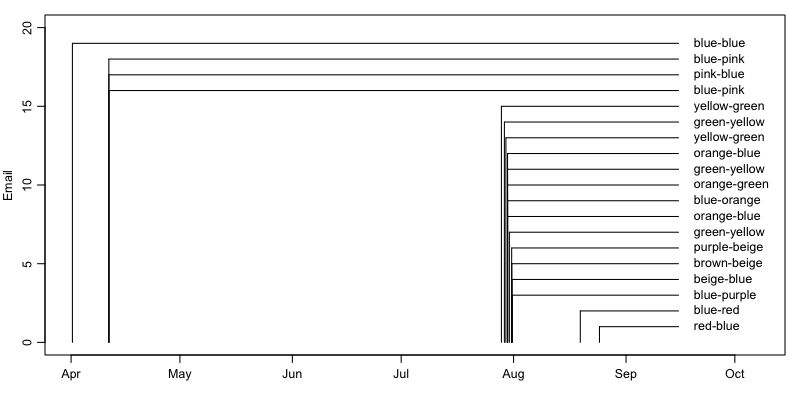
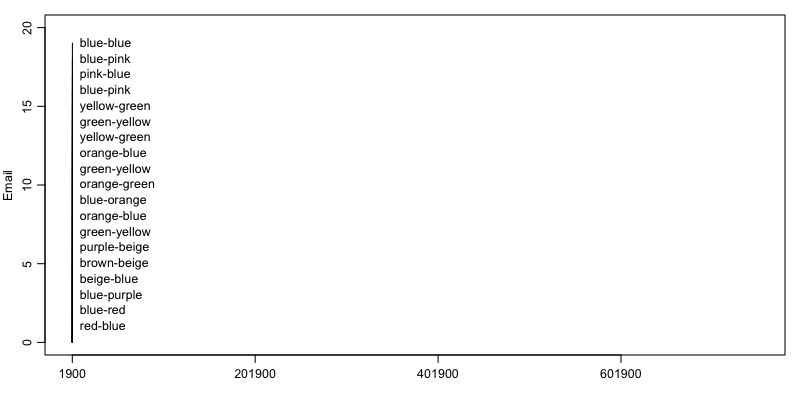
.

diff --git a/_posts/2015-08-25-email-graphs.md b/_posts/2015-08-25-email-graphs.md
@@ -56,11 +56,11 @@ n <- length(from)
 day <- 86400
 par(mar=c(3, 3, 1, 1), mgp=c(2, 0.7, 0))
 timeSpan <- as.numeric(max(t)) - as.numeric(min(t))
-space <- 0.3 # adjust as necessary
+space <- 0.15 * timeSpan # adjust as necessary
 plot(t, 1:n, type='n', xlab="", ylab="Email", xlim=c(min(t), max(t)+space*timeSpan), ylim=c(0, n+1))
-tl <- max(t) + 0.5 * space * timeSpan
+tl <- max(t) + space
 for (i in 1:n) {
-    text(tl + 0.05 * space * timeSpan, i, paste(from[i], "-", to[i], sep=""), pos=4)
+    text(tl + 0.01 * space, i, paste(from[i], "-", to[i], sep=""), pos=4)
     lines(c(tl, t[i]), rep(i, 2))
     lines(c(t[i], t[i]), c(i, 0))
 }
